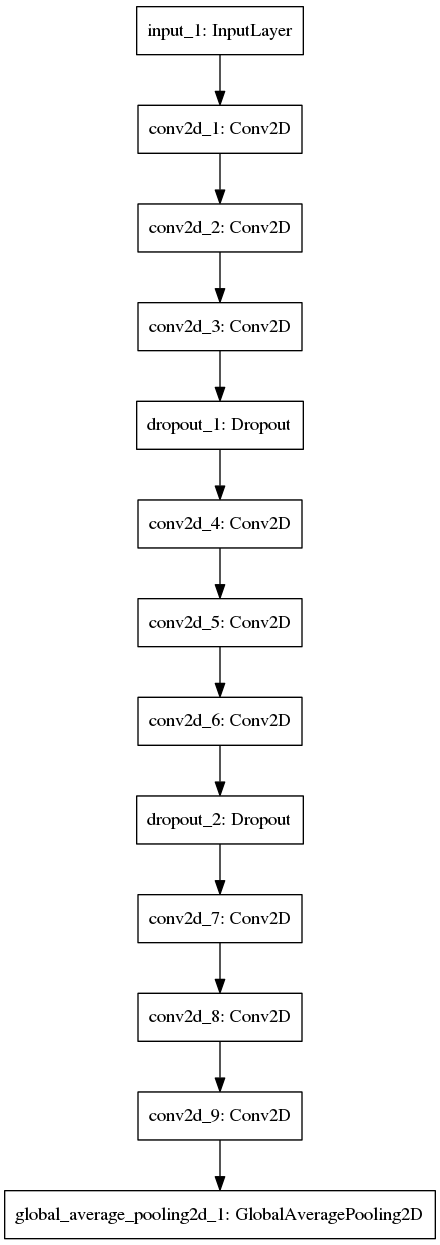
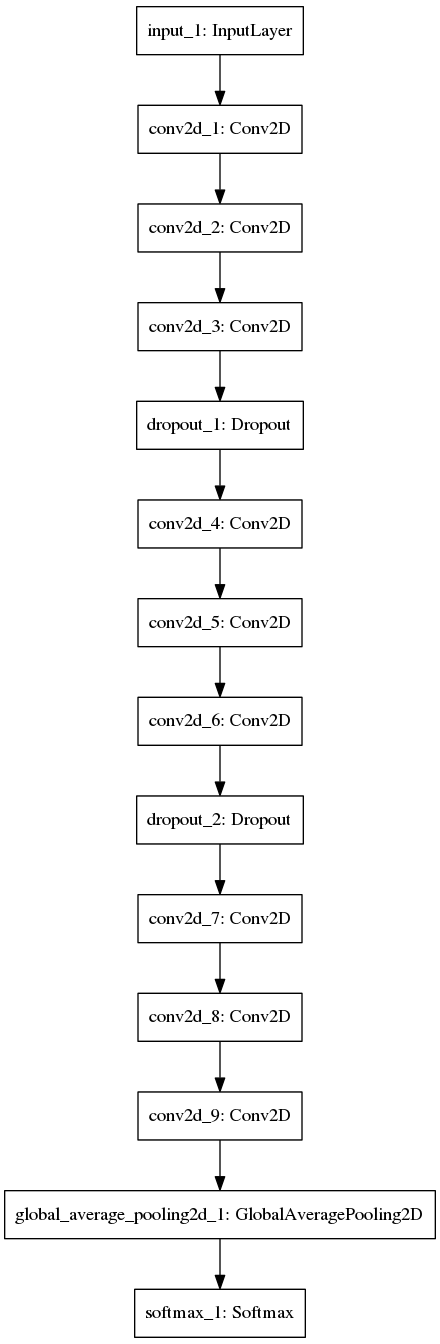
Modified AllCNN, added softmax

Changed region(s): [[0.0, 0.0, 1.0, 1.0]]

diff --git a/AllCNN.py b/AllCNN.py
@@ -56,7 +56,8 @@ class AllCNN():
         conv8 = Conv2D(filters=192,kernel_size=1,border_mode='valid',activation="relu")(conv7)
         conv9 = Conv2D(filters=n_outputs,kernel_size=1,border_mode='valid',activation="relu")(conv8)
         global_averaging = GlobalAveragePooling2D()(conv9)
-        model = Model(inputs=inp, outputs=global_averaging)
+        softmax = Softmax(10)(global_averaging)
+        model = Model(inputs=inp, outputs=softmax)
         sgd = SGD(lr=0.01, decay=1e-6, momentum=0.9, nesterov=True)
         model.compile(loss='categorical_crossentropy',optimizer=sgd,metrics=['accuracy'])
         print(model.summary())
@@ -74,7 +75,7 @@ class AllCNN():
         
     def predict(self,X):
         
-        if len(X.shape) == 3: #if X is one image
+        if len(X.shape) == 3:
             X = X.reshape(1,X.shape[0],X.shape[1],X.shape[2])
         predictions = self.model.predict(X)
         return np.argmax(predictions)
